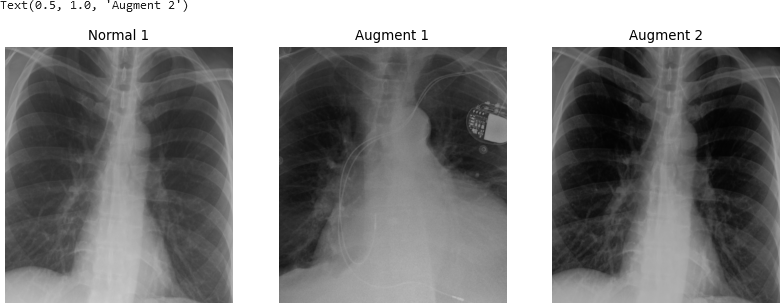
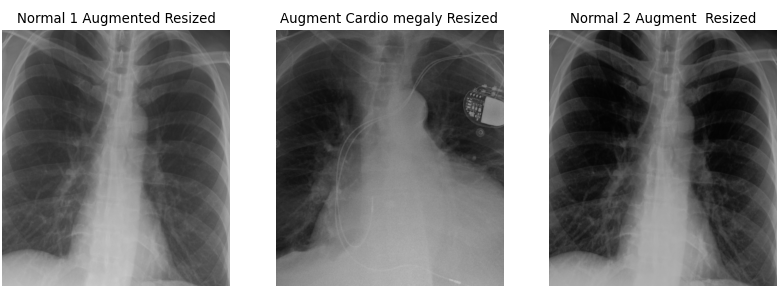
better titles

diff --git a/episodes/preparing_for_machine_learning.md b/episodes/preparing_for_machine_learning.md
@@ -99,6 +99,7 @@ from skimage import img_as_float
 from skimage.transform import rotate
 from skimage import transform as tf
 from skimage.transform import PiecewiseAffineTransform
+from skimage.transform import resize
 ```
 
 Then, we import our example images and examine them.
@@ -216,21 +217,21 @@ fig.add_subplot(rows, columns, 1)
 # showing image
 plt.imshow(better_for_ml_list[0])
 plt.axis('off')
-plt.title("Normal 1")
+plt.title("Normal example rotated")
   
 # add a subplot at the 2nd position
 fig.add_subplot(rows, columns, 2)
 # showing image
 plt.imshow(better_for_ml_list[1])
 plt.axis('off')
-plt.title("Augment 1")
+plt.title("Cardiomegaly rotated")
 
 # add a subplot at the 3nd position
 fig.add_subplot(rows, columns, 3)
 # showing image
 plt.imshow(better_for_ml_list[2])
 plt.axis('off')
-plt.title("Augment 2")
+plt.title("Another normal rotated")
 
 
 ```
@@ -264,21 +265,21 @@ fig.add_subplot(rows, columns, 1)
 # showing image
 plt.imshow(resized[0])
 plt.axis('off')
-plt.title("Normal 1")
+plt.title("Normal Resized")
   
 # add a subplot at the 2nd position
 fig.add_subplot(rows, columns, 2)
 # showing image
 plt.imshow(resized[1])
 plt.axis('off')
-plt.title("Augment 1")
+plt.title("Augment 1 Resized")
 
 # add a subplot at the 3nd position
 fig.add_subplot(rows, columns, 3)
 # showing image
 plt.imshow(resized[2])
 plt.axis('off')
-plt.title("Augment 2")
+plt.title("Augment 2 Resized")
 ```
 
 
